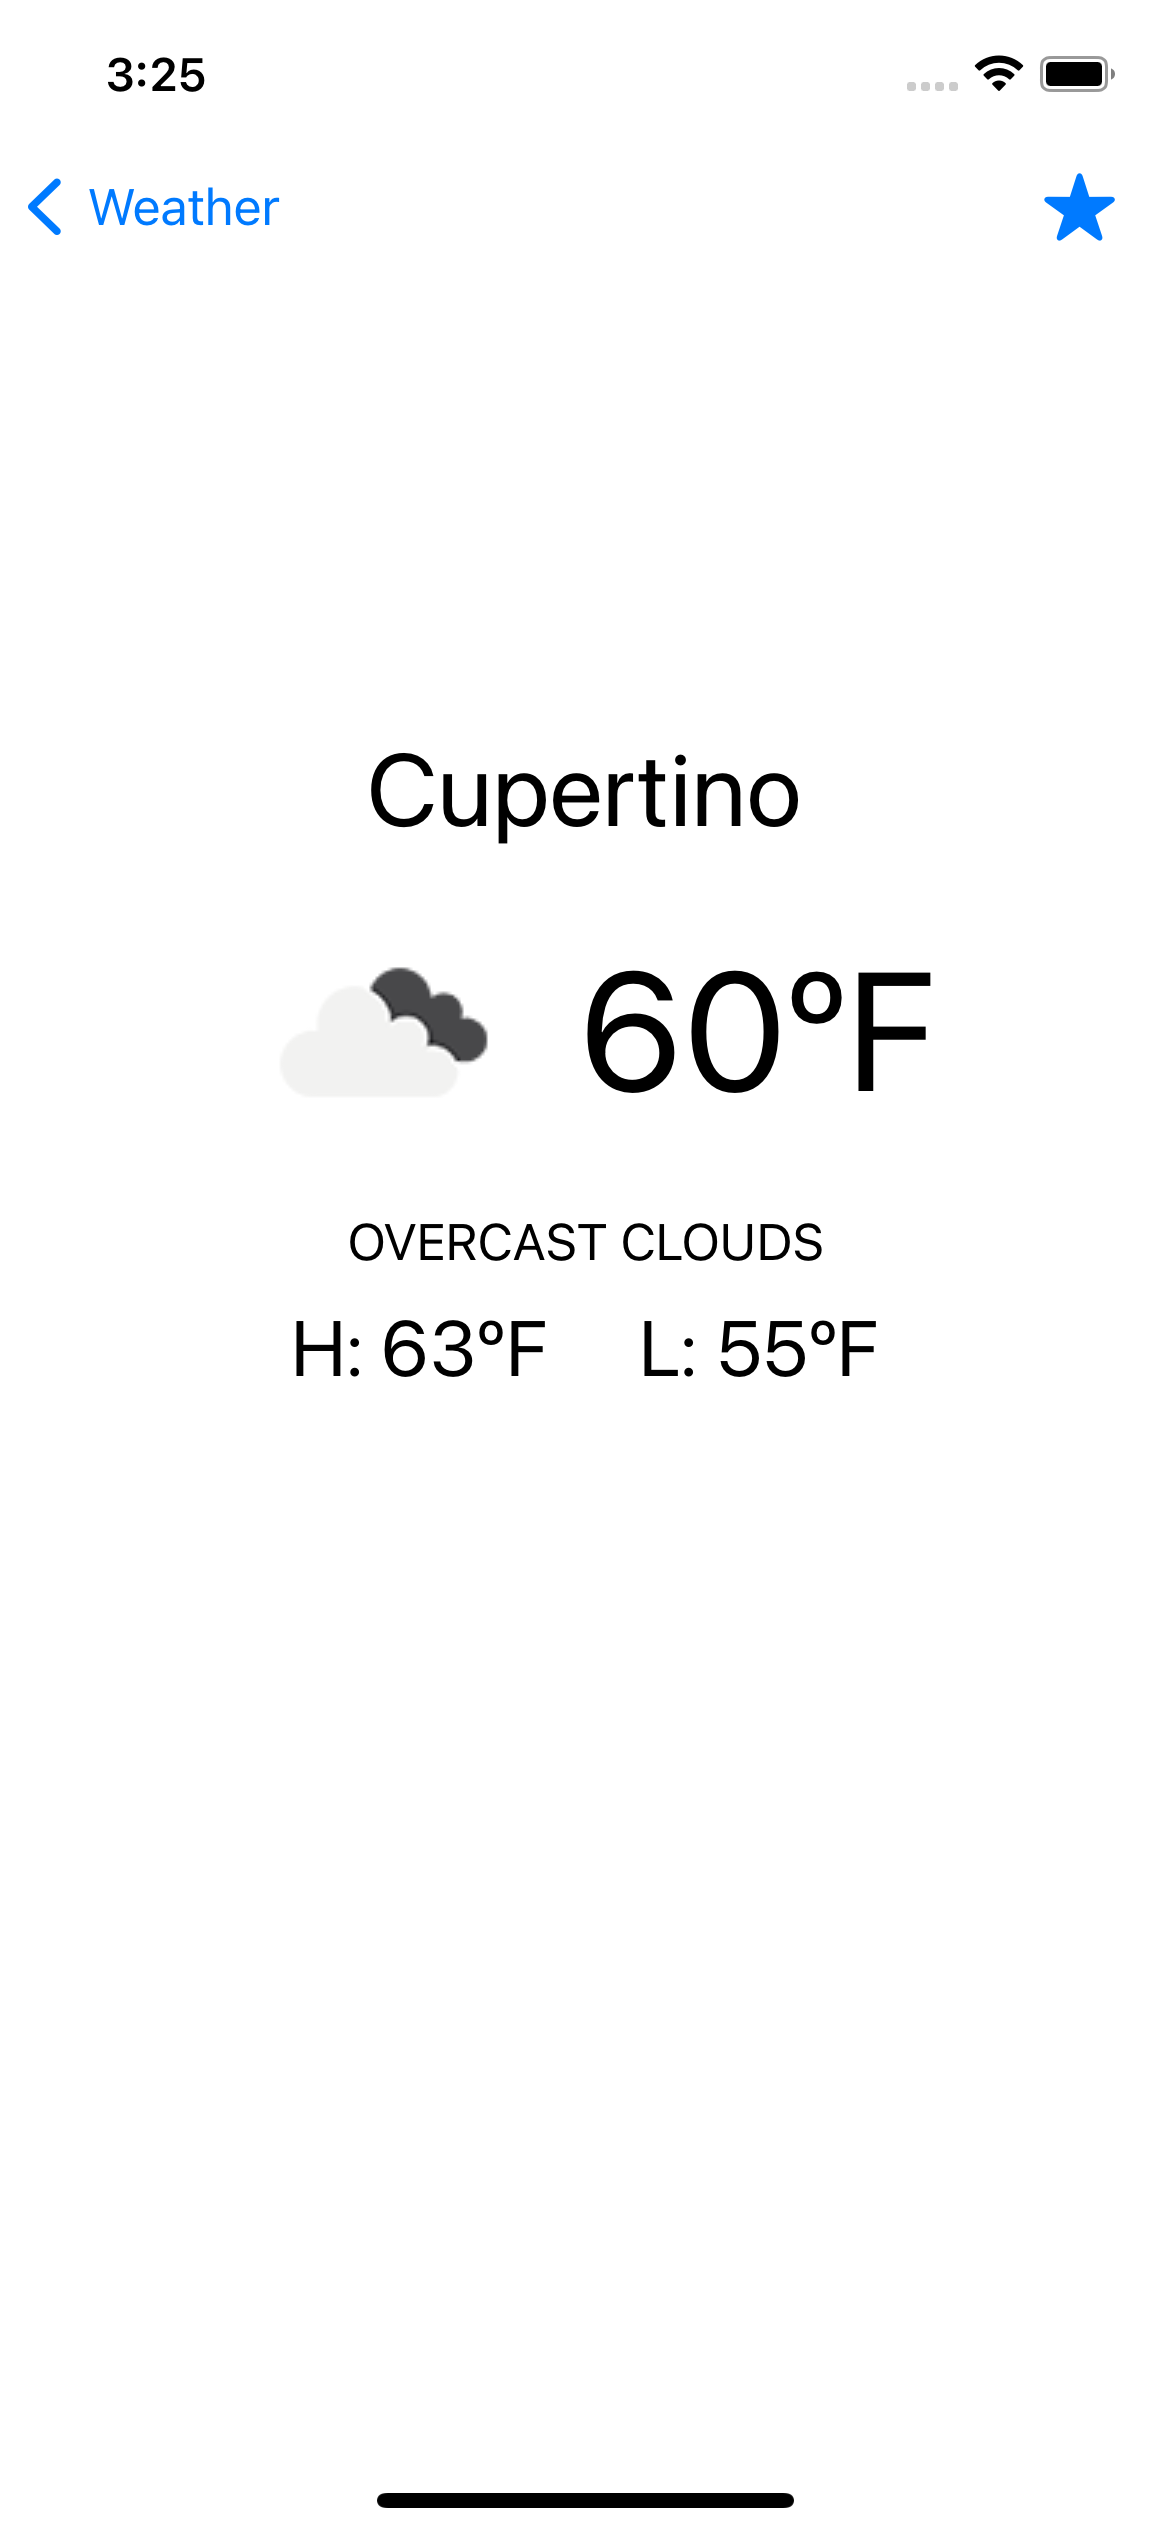
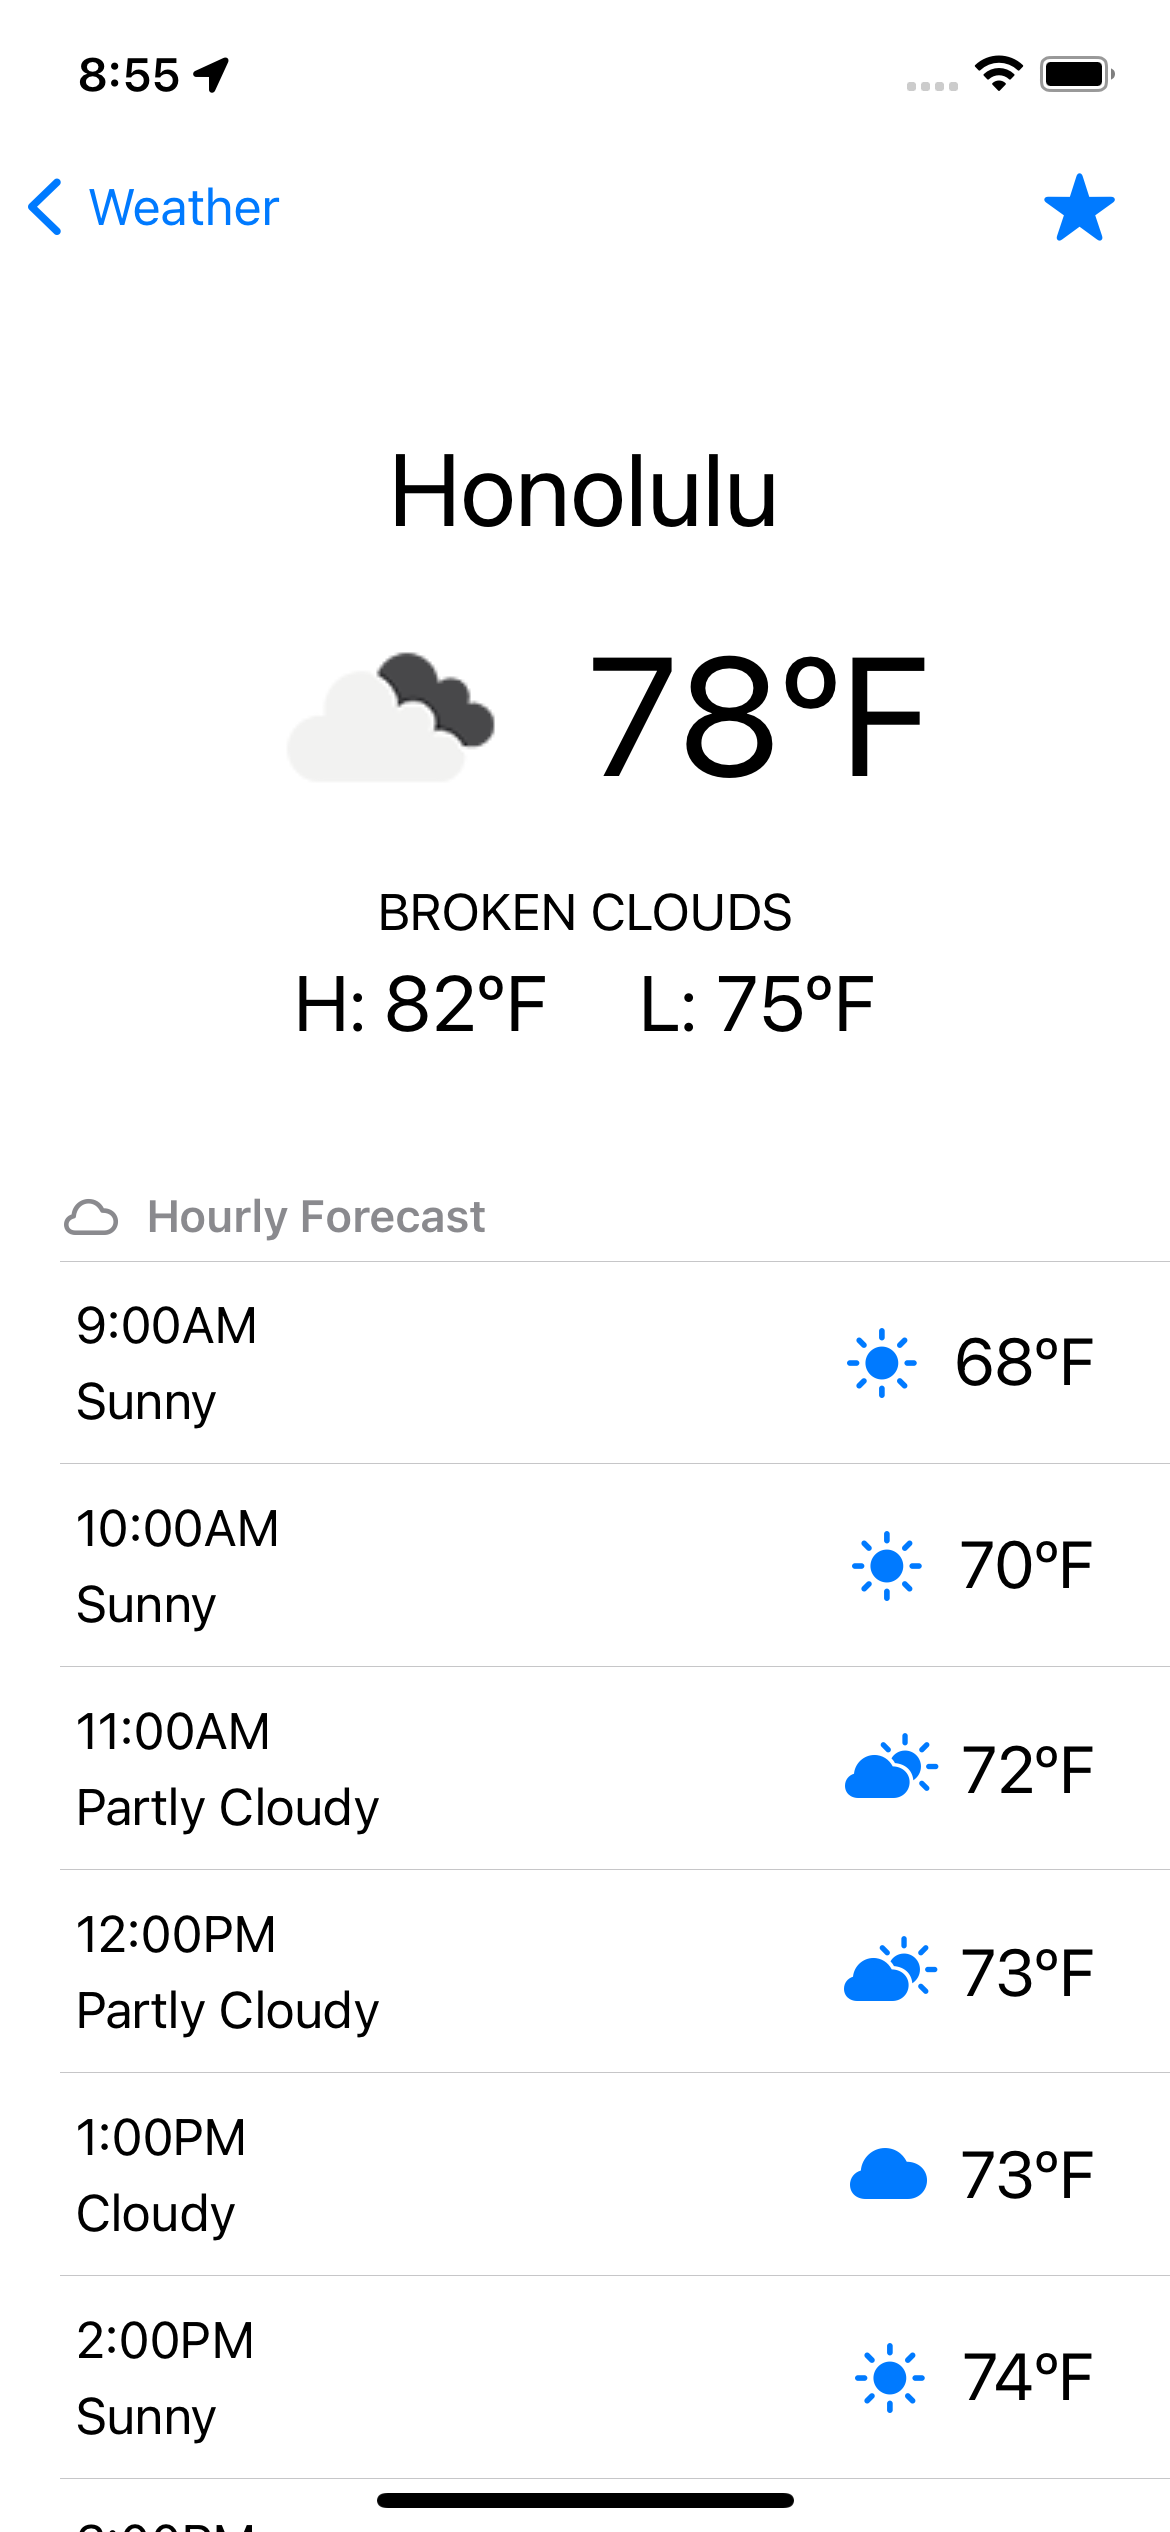
feat: added hourly view to weather detail screen

diff --git a/Weather/Views/DetailedWeatherView.swift b/Weather/Views/DetailedWeatherView.swift
@@ -9,53 +9,90 @@ import SwiftUI
 
 struct DetailedWeatherView: View {
     var weather: Weather
+    @StateObject var weatherManager = WeatherManager()
     @State var favoriteLocations = (UserDefaults.standard.stringArray(forKey: "Favorites") ?? [])
     @State private var showingPopover = false
     var body: some View {
         VStack(alignment: .center) {
-            VStack(spacing: 10) {
-                Text(weather.data.name).font(.largeTitle)
-                HStack(alignment: .center, spacing: 16) {
-                    AsyncImage(url: URL(string: "https://openweathermap.org/img/wn/\(weather.data.weather.first!.icon)@2x.png")) { image in
-                        image.resizable()
-                    } placeholder: {
-                        Color.clear
-                    }
-                        .frame(width: 100, height: 100)
-                    Text("\(Int(weather.data.main.temp))ºF").font(.system(size: 56.0))
-                }
-                Text(weather.data.weather.first!.weatherDescription).font(.body).textCase(.uppercase)
-                HStack(alignment: .center, spacing: 30) {
-                    Text("H: \(Int(weather.data.main.tempMax))ºF").font(.system(size: 26.0))
-                    Text("L: \(Int(weather.data.main.tempMin))ºF").font(.system(size: 26.0))
-                }
-            }
-
+            weatherDetailsView()
             Spacer()
-        }
-            // Toolbar to add or remove favorites from UserDefaults
-            .toolbar() {
-            ToolbarItemGroup(placement: .navigationBarTrailing) {
-                if (!favoriteLocations.contains(weather.data.name)) {
-                    Button(action: {
-                        favoriteLocations.append(weather.data.name)
-                        UserDefaults.standard.set(favoriteLocations, forKey: "Favorites")
-                    }, label: {
-                            Label("Add Favorite", systemImage: "star")
-                        })
+            hourlyWeatherView()
+        }.toolbar { toolbarView() }
+    }
+
+    func weatherDetailsView() -> some View {
+        VStack(spacing: 5) {
+            Text(weather.data.name).font(.largeTitle)
+            HStack(alignment: .center, spacing: 16) {
+                AsyncImage(url: URL(string: "https://openweathermap.org/img/wn/\(weather.data.weather.first!.icon)@2x.png")) { image in
+                    image.resizable()
+                } placeholder: {
+                    Color.clear
                 }
-                else {
-                    Button(action: {
-                        favoriteLocations = favoriteLocations.filter { $0 != weather.data.name }
-                        UserDefaults.standard.set(favoriteLocations, forKey: "Favorites")
-                    }, label: {
-                            Label("Remove Favorite", systemImage: "star.fill")
-                        })
+                    .frame(width: 100, height: 100)
+                Text("\(Int(weather.data.main.temp))ºF").font(.system(size: 56.0))
+            }
+            Text(weather.data.weather.first!.weatherDescription).font(.body).textCase(.uppercase)
+            HStack(alignment: .center, spacing: 30) {
+                Text("H: \(Int(weather.data.main.tempMax))ºF").font(.system(size: 26.0))
+                Text("L: \(Int(weather.data.main.tempMin))ºF").font(.system(size: 26.0))
+            }
+        }.padding(.bottom, 10)
+    }
+
+    func hourlyWeatherView() -> some View {
+        List {
+            Section(header: hourlyWeatherHeader()) {
+                ForEach(HourlyWeather.sampleData) { weather in
+                    HStack(alignment: .center) {
+                        VStack(alignment: .leading, spacing: 5) {
+                            Text(weather.time)
+                            Text(weather.description)
+                        }
+                        Spacer()
+                        VStack(alignment: .trailing) {
+                            Label("\(Int(weather.temp))ºF", systemImage: weather.icon)
+                                .font(.title2)
+                        }
+                    }.padding(5)
                 }
             }
         }
-            .padding(.top, 100)
+        .listStyle(.inset)
     }
+    
+    func hourlyWeatherHeader() -> some View {
+        HStack {
+            Image(systemName: "cloud")
+            Text("Hourly Forecast")
+        }
+//        .listRowInsets(EdgeInsets(top: 0, leading: 10, bottom: 0, trailing: 10))
+    }
+
+    func toolbarView() -> some View {
+        Group {
+            if (!favoriteLocations.contains(weather.data.name)) {
+                Button(action: {
+                    favoriteLocations.append(weather.data.name)
+                    UserDefaults.standard.set(favoriteLocations, forKey: "Favorites")
+                }, label: {
+                        Label("Add Favorite", systemImage: "star")
+                    })
+            }
+            else {
+                Button(action: {
+                    favoriteLocations = favoriteLocations.filter { $0 != weather.data.name }
+                    UserDefaults.standard.set(favoriteLocations, forKey: "Favorites")
+                }, label: {
+                        Label("Remove Favorite", systemImage: "star.fill")
+                    })
+            }
+        }
+    }
+
+//    func getWeatherData() {
+//        WeatherManager().fetchWeather(cityZip: weather.data.name, completion: { weather in self.hourlyWeather = weather })
+//    }
 }
 
 struct DetailedWeatherView_Previews: PreviewProvider {

diff --git a/Weather/Models/WeatherModel.swift b/Weather/Models/WeatherModel.swift
@@ -22,6 +22,14 @@ struct Weather: Identifiable, Equatable {
     let data: WeatherModel
 }
 
+struct HourlyWeather: Identifiable {
+    var id = UUID()
+    let time: String
+    let temp: Double
+    let description: String
+    let icon: String
+}
+
 // MARK: - OpenWeatherMap Model
 struct WeatherModel: Codable, Identifiable {
     let coord: Coord
@@ -117,5 +125,21 @@ extension Weather {
     [
         Weather(data: WeatherModel(coord: Coord(lon: 84.111, lat: -53.111), weather: [WeatherDescription(id: 200, main: "Sunny", weatherDescription: "It's very sunny", icon: "01d")], base: "stations", main: Main(temp: 84.543, feelsLike: 86.56, tempMin: 75.123, tempMax: 89.432, pressure: 1018, humidity: 67), visibility: 10000, wind: Wind(speed: 2.57, deg: 60), rain: Rain(the1H: 0.1), clouds: Clouds(all: 100), dt: 1651191306, sys: Sys(type: 2, id: 2008655, country: "US", sunrise: 1651142465, sunset: 1651192010), timezone: -14400, id: 4511939, name: "Dayton", cod: 200)),
         Weather(data: WeatherModel(coord: Coord(lon: 85.111, lat: -53.111), weather: [WeatherDescription(id: 200, main: "Sunny", weatherDescription: "It's very sunny", icon: "02d")], base: "stations", main: Main(temp: 84.543, feelsLike: 86.56, tempMin: 75.123, tempMax: 89.432, pressure: 1018, humidity: 67), visibility: 10000, wind: Wind(speed: 2.57, deg: 60), rain: Rain(the1H: 0.1), clouds: Clouds(all: 100), dt: 1651191306, sys: Sys(type: 2, id: 2008655, country: "US", sunrise: 1651142465, sunset: 1651192010), timezone: -14400, id: 4511939, name: "Cincinnati", cod: 200))
+    ]
+}
+
+extension HourlyWeather {
+    static let sampleData: [HourlyWeather] =
+    [
+        HourlyWeather(time: "9:00AM", temp: 68.542, description: "Sunny", icon: "sun.max.fill"),
+        HourlyWeather(time: "10:00AM", temp: 70.542, description: "Sunny", icon: "sun.max.fill"),
+        HourlyWeather(time: "11:00AM", temp: 72.542, description: "Partly Cloudy", icon: "cloud.sun.fill"),
+        HourlyWeather(time: "12:00PM", temp: 73.542, description: "Partly Cloudy", icon: "cloud.sun.fill"),
+        HourlyWeather(time: "1:00PM", temp: 73.542, description: "Cloudy", icon: "cloud.fill"),
+        HourlyWeather(time: "2:00PM", temp: 74.542, description: "Sunny", icon: "sun.max.fill"),
+        HourlyWeather(time: "3:00PM", temp: 75.542, description: "Sunny", icon: "sun.max.fill"),
+        HourlyWeather(time: "4:00PM", temp: 75.542, description: "Sunny", icon: "sun.max.fill"),
+        HourlyWeather(time: "5:00PM", temp: 75.542, description: "Cloudy", icon: "cloud.fill"),
+        HourlyWeather(time: "6:00PM", temp: 74.542, description: "Cloudy", icon: "cloud.fill")
     ]
 }
